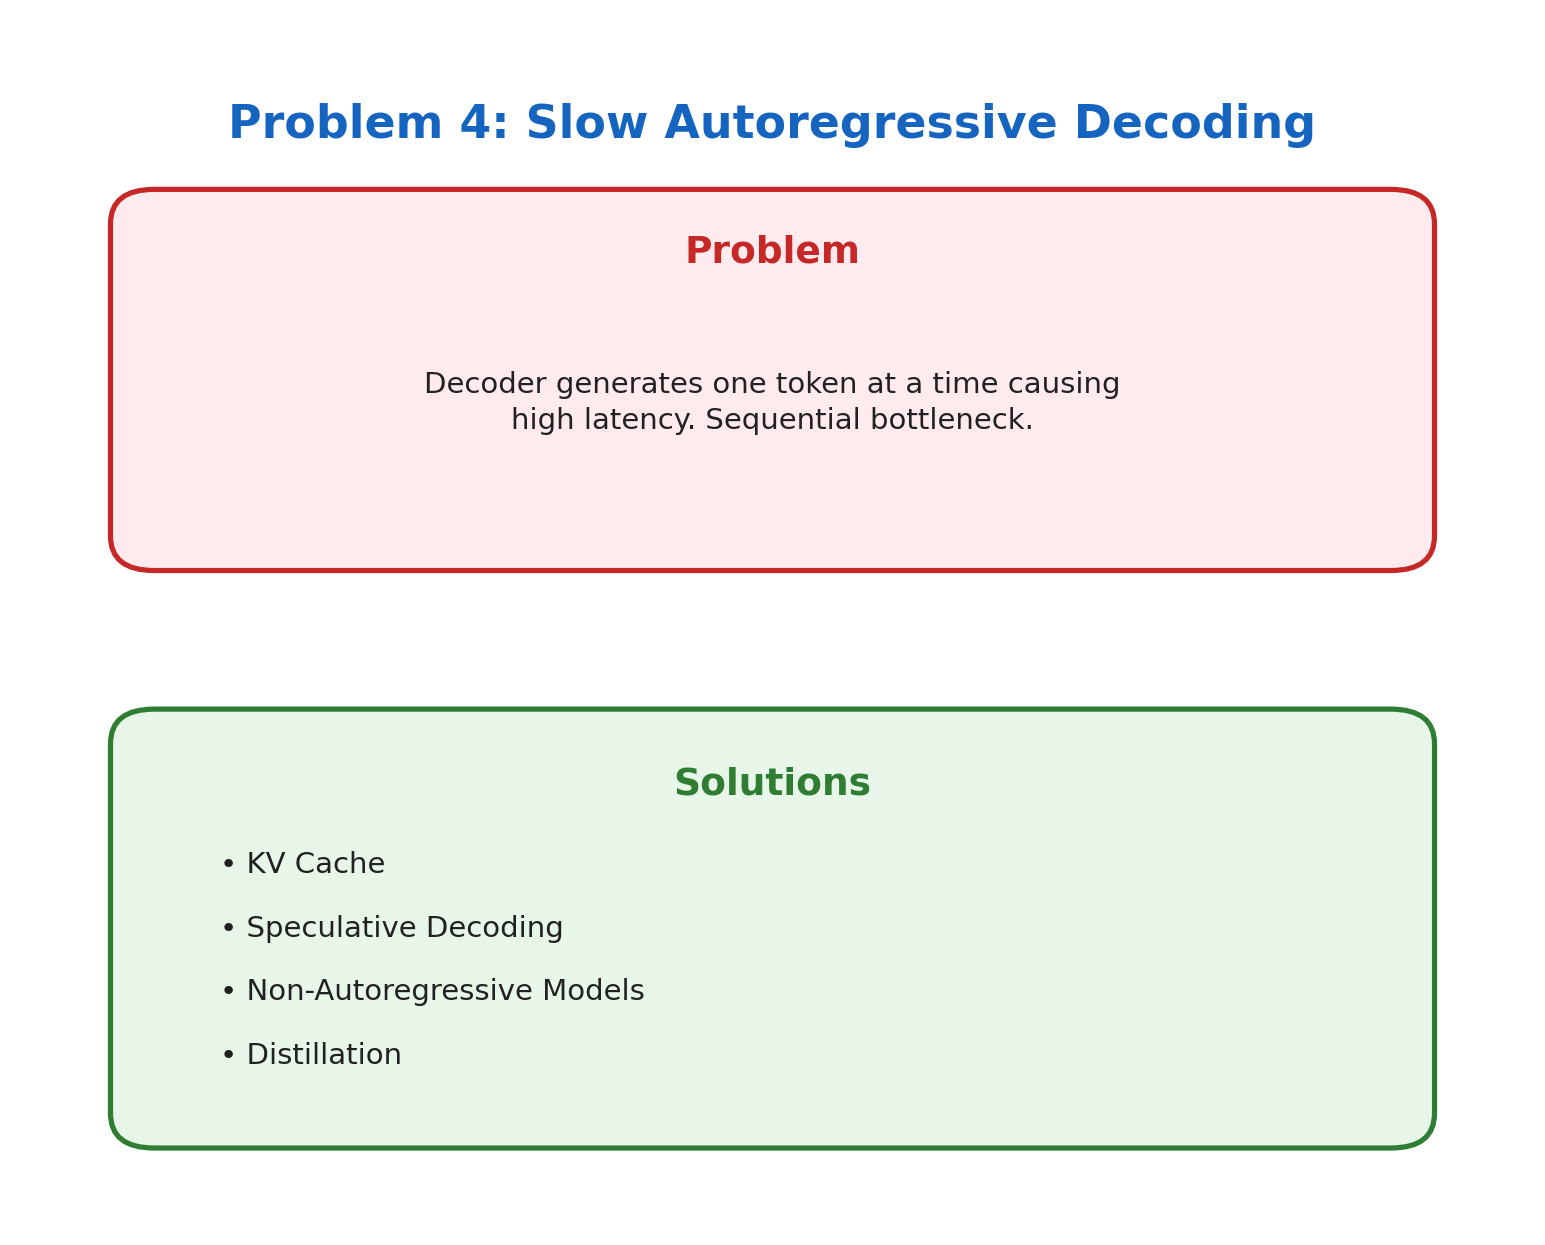
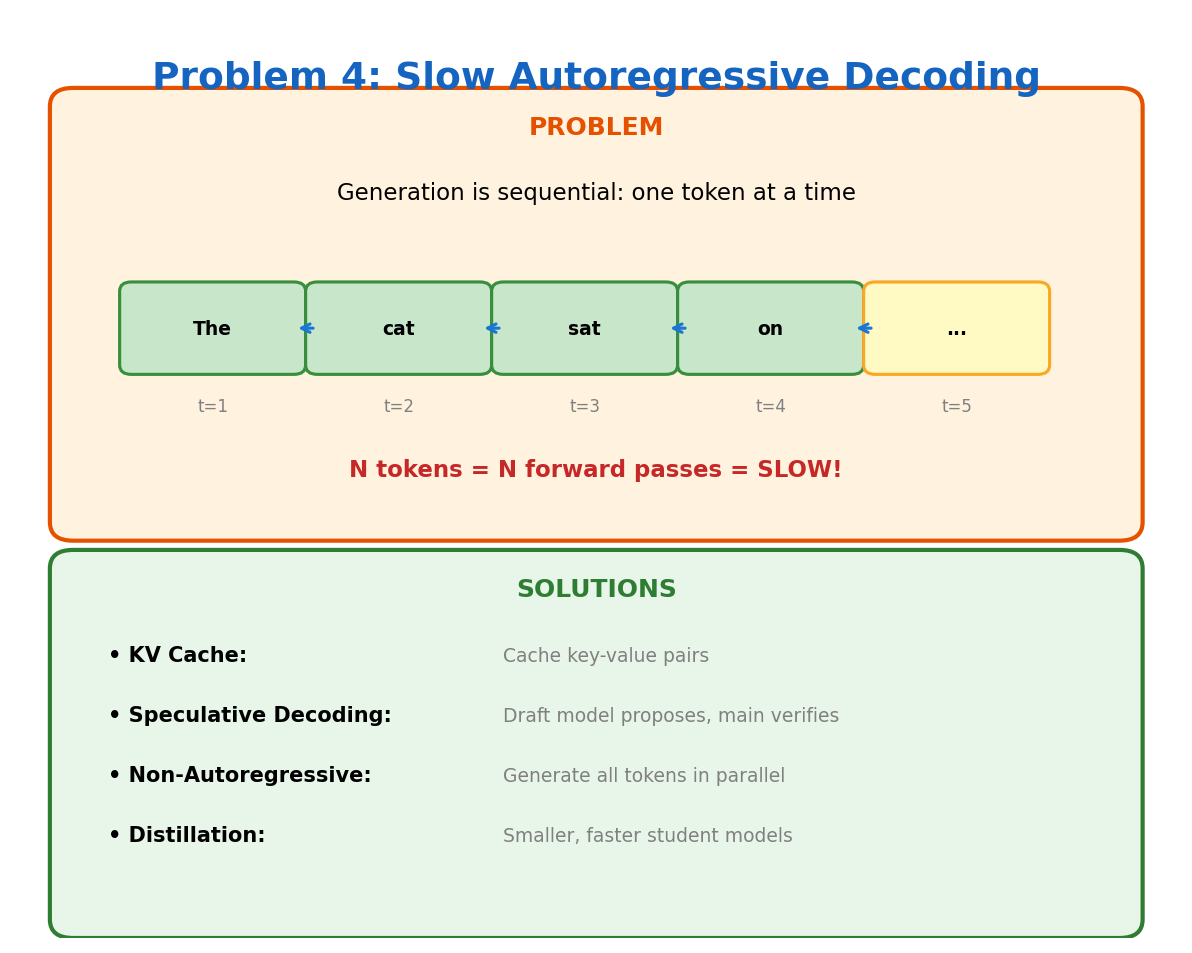
Update Problem 04: Slow Decoding - human-readable README

diff --git a/04_slow_decoding/README.md b/04_slow_decoding/README.md
@@ -1,22 +1,55 @@
 # Problem 4: Slow Autoregressive Decoding
 
-## Problem
+[← Back to Main](../README.md) | [← Previous](../03_fixed_context/README.md) | [Next →](../05_local_bias/README.md)
 
-Decoder generates one token at a time causing high latency. Sequential bottleneck.
+---
 
-Autoregressive generation requires sequential token-by-token generation, where each new token depends on all previous tokens. This creates a fundamental latency bottleneck that cannot be parallelized.
+![Problem 4](./problem.png)
 
-## Solutions
+## What's the Problem?
 
-| Solution | Description |
-|----------|-------------|
-| **KV Cache** | Cache key-value pairs to avoid recomputation during generation |
-| **Speculative Decoding** | Use smaller draft model to propose multiple tokens, verify with large model |
-| **Non-Autoregressive Models** | Generate all tokens in parallel (with quality trade-offs) |
-| **Distillation** | Train smaller, faster models to mimic larger ones |
+When GPT generates text, it works like this:
+1. Generate "The"
+2. Feed "The" back in, generate "cat"
+3. Feed "The cat" back in, generate "sat"
+4. And so on...
 
-## References
+Want to generate 100 tokens? That's 100 separate forward passes through the model. You can't parallelize this because each token depends on all the previous ones.
 
-- [Speculative Decoding](https://arxiv.org/abs/2211.17192) - Fast Inference from Transformers via Speculative Decoding
-- [Non-Autoregressive Translation](https://arxiv.org/abs/1711.02281) - Non-Autoregressive Neural Machine Translation
+This is why ChatGPT streams responses word-by-word — it literally can't give you the full answer instantly.
 
+## Why Does This Happen?
+
+Language models are trained to predict `P(next_token | previous_tokens)`. This autoregressive setup means:
+
+- Token 5 needs tokens 1-4 to exist first
+- Token 6 needs tokens 1-5
+- And so on...
+
+There's an inherent sequential dependency. Training can be parallelized (we know all the "right" answers), but generation cannot.
+
+## How Do We Fix It?
+
+| Approach | The Idea |
+|----------|----------|
+| **KV Cache** | Don't recompute attention for old tokens — cache their K and V values |
+| **Speculative Decoding** | Use a tiny model to draft several tokens, big model just verifies (often faster!) |
+| **Non-Autoregressive** | Generate all tokens at once, then refine (quality trade-off) |
+| **Distillation** | Train smaller models that run faster |
+
+## KV Cache: The Standard Fix
+
+Without KV cache, generating token 100 means recomputing attention for tokens 1-99 from scratch. With caching:
+- Token 1-99's K,V values are stored
+- Token 100 only computes its own K,V and attends to the cache
+
+This doesn't reduce the number of forward passes, but makes each one much cheaper.
+
+## Learn More
+
+- [Speculative Decoding](https://arxiv.org/abs/2211.17192) — Draft and verify approach
+- [Medusa](https://arxiv.org/abs/2401.10774) — Multiple decoding heads
+
+---
+
+[← Back to Main](../README.md) | [← Previous](../03_fixed_context/README.md) | [Next →](../05_local_bias/README.md)
